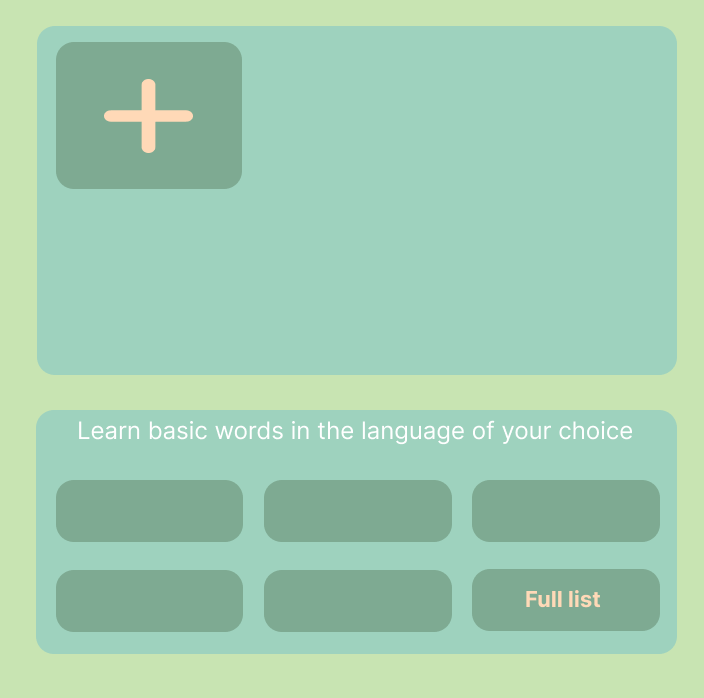
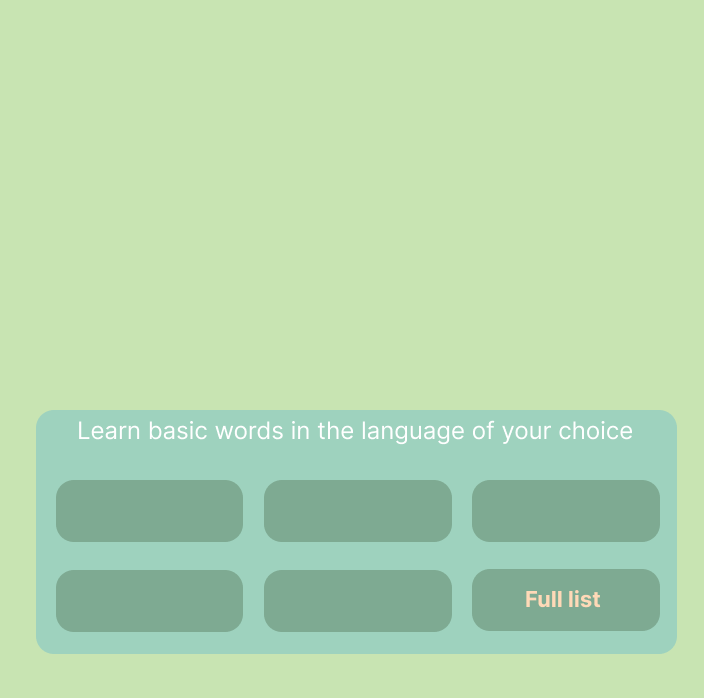
updated update_top_panel & populate_session_panel
changed the way that the top panel refreshes to show saved sessions. It does eliminate bugs when the given session name is too long to be hold inside a button and it sticks out causing a UI error.

diff --git a/app/main.py b/app/main.py
@@ -79,6 +79,7 @@ class LeftFrame(tk.Frame):
         self.pack(side="left")
 
         # top panel
+        self.top_panel_bg = PhotoImage(file="./components/graphical_components/main_panel/top_panel.png")
         self.new_session_button_bg = (
             PhotoImage(file="./components/graphical_components/main_panel/add_session_button.png"))
         self.session_bg = PhotoImage(file="./components/graphical_components/main_panel/session_bg.png")
@@ -135,6 +136,13 @@ class LeftFrame(tk.Frame):
         panels_name_position_y = [95, 95, 262, 262, 262]
         panels_delete_button_position_y = [49, 49, 218, 218, 218]
 
+        self.top_panel = tk.Label(self, image=self.top_panel_bg, background="#C8E4B2", bd=0)
+        self.top_panel.place(x=32, y=26)
+
+        self.new_session_button = tk.Button(self, command=lambda: self.master.show_frame("word_frame"),
+                                            image=self.new_session_button_bg, bd=0, background='#9ed2be')
+        self.new_session_button.place(x=50, y=42)
+
         sessions_number = len(saved_sessions)
 
         for i, session in enumerate(saved_sessions):
@@ -150,11 +158,6 @@ class LeftFrame(tk.Frame):
             session_delete_button = tk.Button(self, image=self.session_delete_bg, background="#7eaa92", bd=0,
                                               command=lambda session=session: self.delete_session(session))
             session_delete_button.place(x=panels_position_x[i] + 158, y=panels_delete_button_position_y[i])
-
-            while sessions_number < 5:
-                session_label = tk.Label(self, image=self.blank_session_bg, background="#9ed2be", bd=0)
-                session_label.place(x=panels_position_x[sessions_number], y=panels_position_y[sessions_number])
-                sessions_number += 1
 
     def delete_session(self, session_name):
         if confirmation := messagebox.askyesno(
